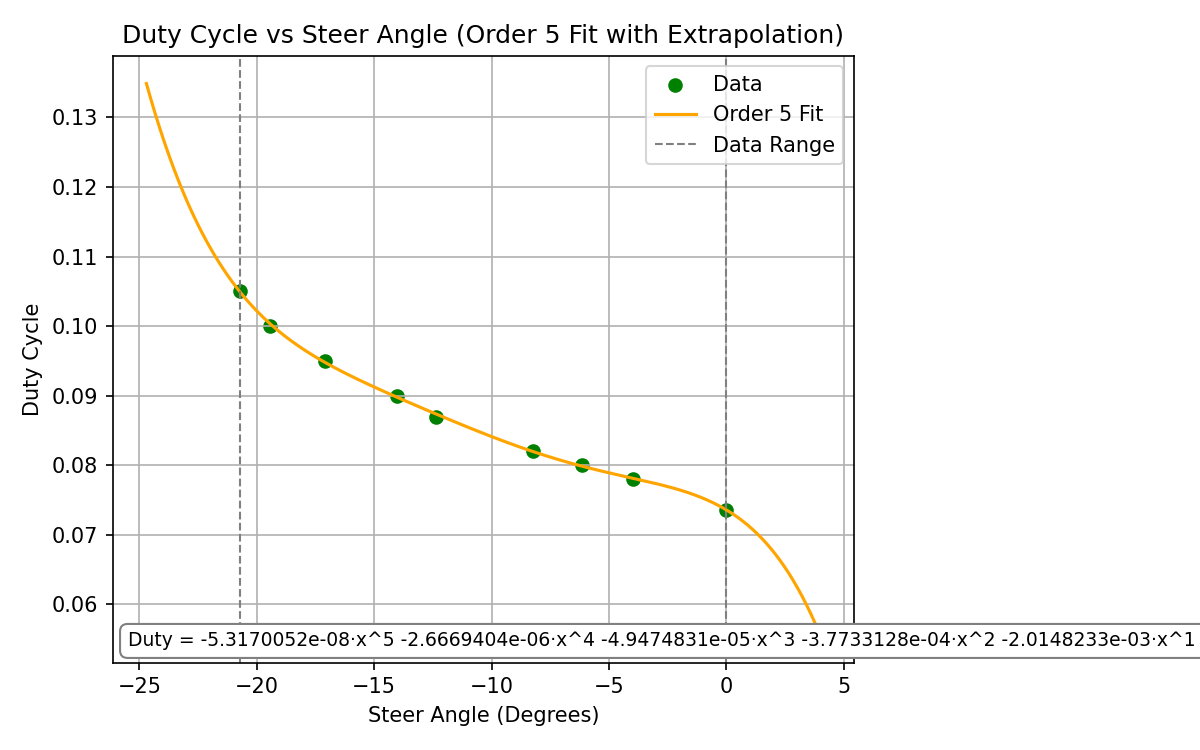
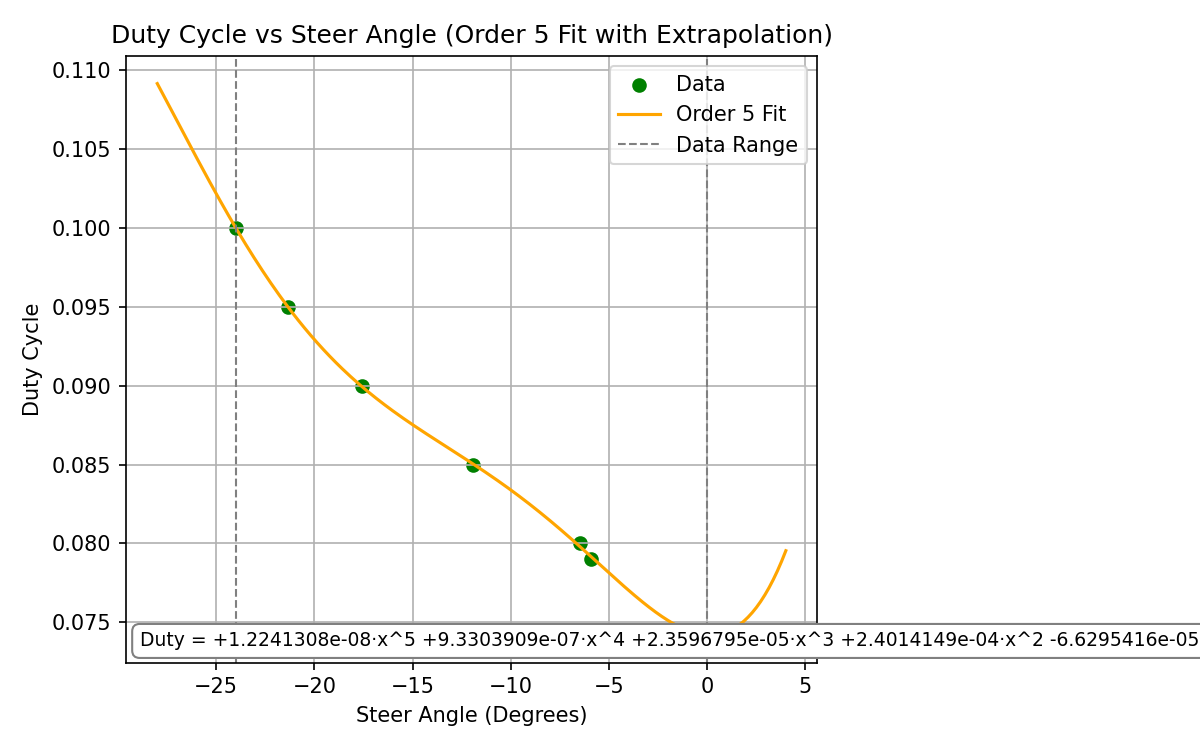
New steering calibration with changed link lengths

diff --git a/Embedded_Platform/Embedded_2024/source/drivers/steeringmotor.cpp b/Embedded_Platform/Embedded_2024/source/drivers/steeringmotor.cpp
@@ -176,12 +176,12 @@ namespace drivers{
         else if(f_angle > 0)
         {
             // Polynomial Coefficients (Order 5):
-            const float a5 = -0.0000000094286134f;
-            const float a4 =  0.0000002006492730f;
-            const float a3 =  0.0000001106130999f;
-            const float a2 = -0.0000120192007872f;
-            const float a1 = -0.0009293191400372f;
-            const float c  =  0.0735989541715659f;
+            const float a5 = -0.0000000491593484f;
+            const float a4 =  0.0000029126164583f;
+            const float a3 = -0.0000605693952073f;
+            const float a2 =  0.0005174370310037f;
+            const float a1 = -0.0022750131493870f;
+            const float c  =  0.0742195442986335f;
             dutyCycle = a5 * std::pow(f_angle, 5)
                       + a4 * std::pow(f_angle, 4)
                       + a3 * std::pow(f_angle, 3)
@@ -193,12 +193,12 @@ namespace drivers{
         else if(f_angle < 0)
         {
             // Polynomial Coefficients (Order 5):
-            const float a5 = -0.0000000531700515f;
-            const float a4 = -0.0000026669403507f;
-            const float a3 = -0.0000494748305042f;
-            const float a2 = -0.0003773312839989f;
-            const float a1 = -0.0020148232875700f;
-            const float c  =  0.0735846340596389f;
+            const float a5 =  0.0000000122413079f;
+            const float a4 =  0.0000009330390902f;
+            const float a3 =  0.0000235967948482f;
+            const float a2 =  0.0002401414893122f;
+            const float a1 = -0.0000662954160231f;
+            const float c  =  0.0741971583466842f;
             dutyCycle = a5 * std::pow(f_angle, 5)
                       + a4 * std::pow(f_angle, 4)
                       + a3 * std::pow(f_angle, 3)
